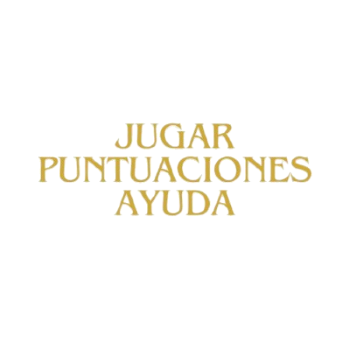
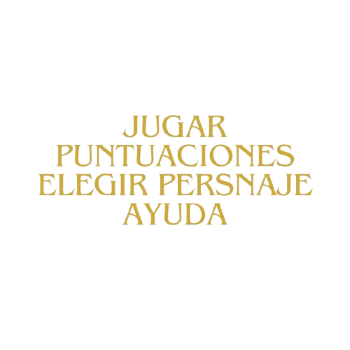
nueva jugadora

Changed region(s): [[0.1143, 0.3143, 0.9143, 0.6571]]

diff --git a/Juego/app/src/main/java/com/ldm/ejemplojuegopiratas/juego/LoadingScreen.java b/Juego/app/src/main/java/com/ldm/ejemplojuegopiratas/juego/LoadingScreen.java
@@ -39,6 +39,10 @@ public class LoadingScreen extends Pantalla{
         Assets.futIzquierda = g.newPixmap("futIzq.png", PixmapFormat.ARGB4444);
         Assets.futAbajo = g.newPixmap("futAbajo.png", PixmapFormat.ARGB4444);
         Assets.futDerecha = g.newPixmap("futDrch.png", PixmapFormat.ARGB4444);
+        Assets.fut2Arriba = g.newPixmap("fut2arriba.png", PixmapFormat.ARGB4444);
+        Assets.fut2Izquierda = g.newPixmap("fut2zq.png", PixmapFormat.ARGB4444);
+        Assets.fut2Abajo = g.newPixmap("fut2abajo.png", PixmapFormat.ARGB4444);
+        Assets.fut2Derecha = g.newPixmap("fut2drch.png", PixmapFormat.ARGB4444);
         Assets.goles = g.newPixmap("golazo.png", PixmapFormat.ARGB4444);
         Assets.premio1 = g.newPixmap("premio1.png", PixmapFormat.ARGB4444);
         Assets.premio2 = g.newPixmap("premio2.png", PixmapFormat.ARGB4444);

diff --git a/Juego/app/src/main/java/com/ldm/ejemplojuegopiratas/juego/Assets.java b/Juego/app/src/main/java/com/ldm/ejemplojuegopiratas/juego/Assets.java
@@ -25,6 +25,10 @@ public class Assets {
     public static Pixmap futIzquierda;
     public static Pixmap futAbajo;
     public static Pixmap futDerecha;
+    public static Pixmap fut2Arriba;
+    public static Pixmap fut2Izquierda;
+    public static Pixmap fut2Abajo;
+    public static Pixmap fut2Derecha;
     public static Pixmap goles;
     public static Pixmap premio1;
     public static Pixmap premio2;
